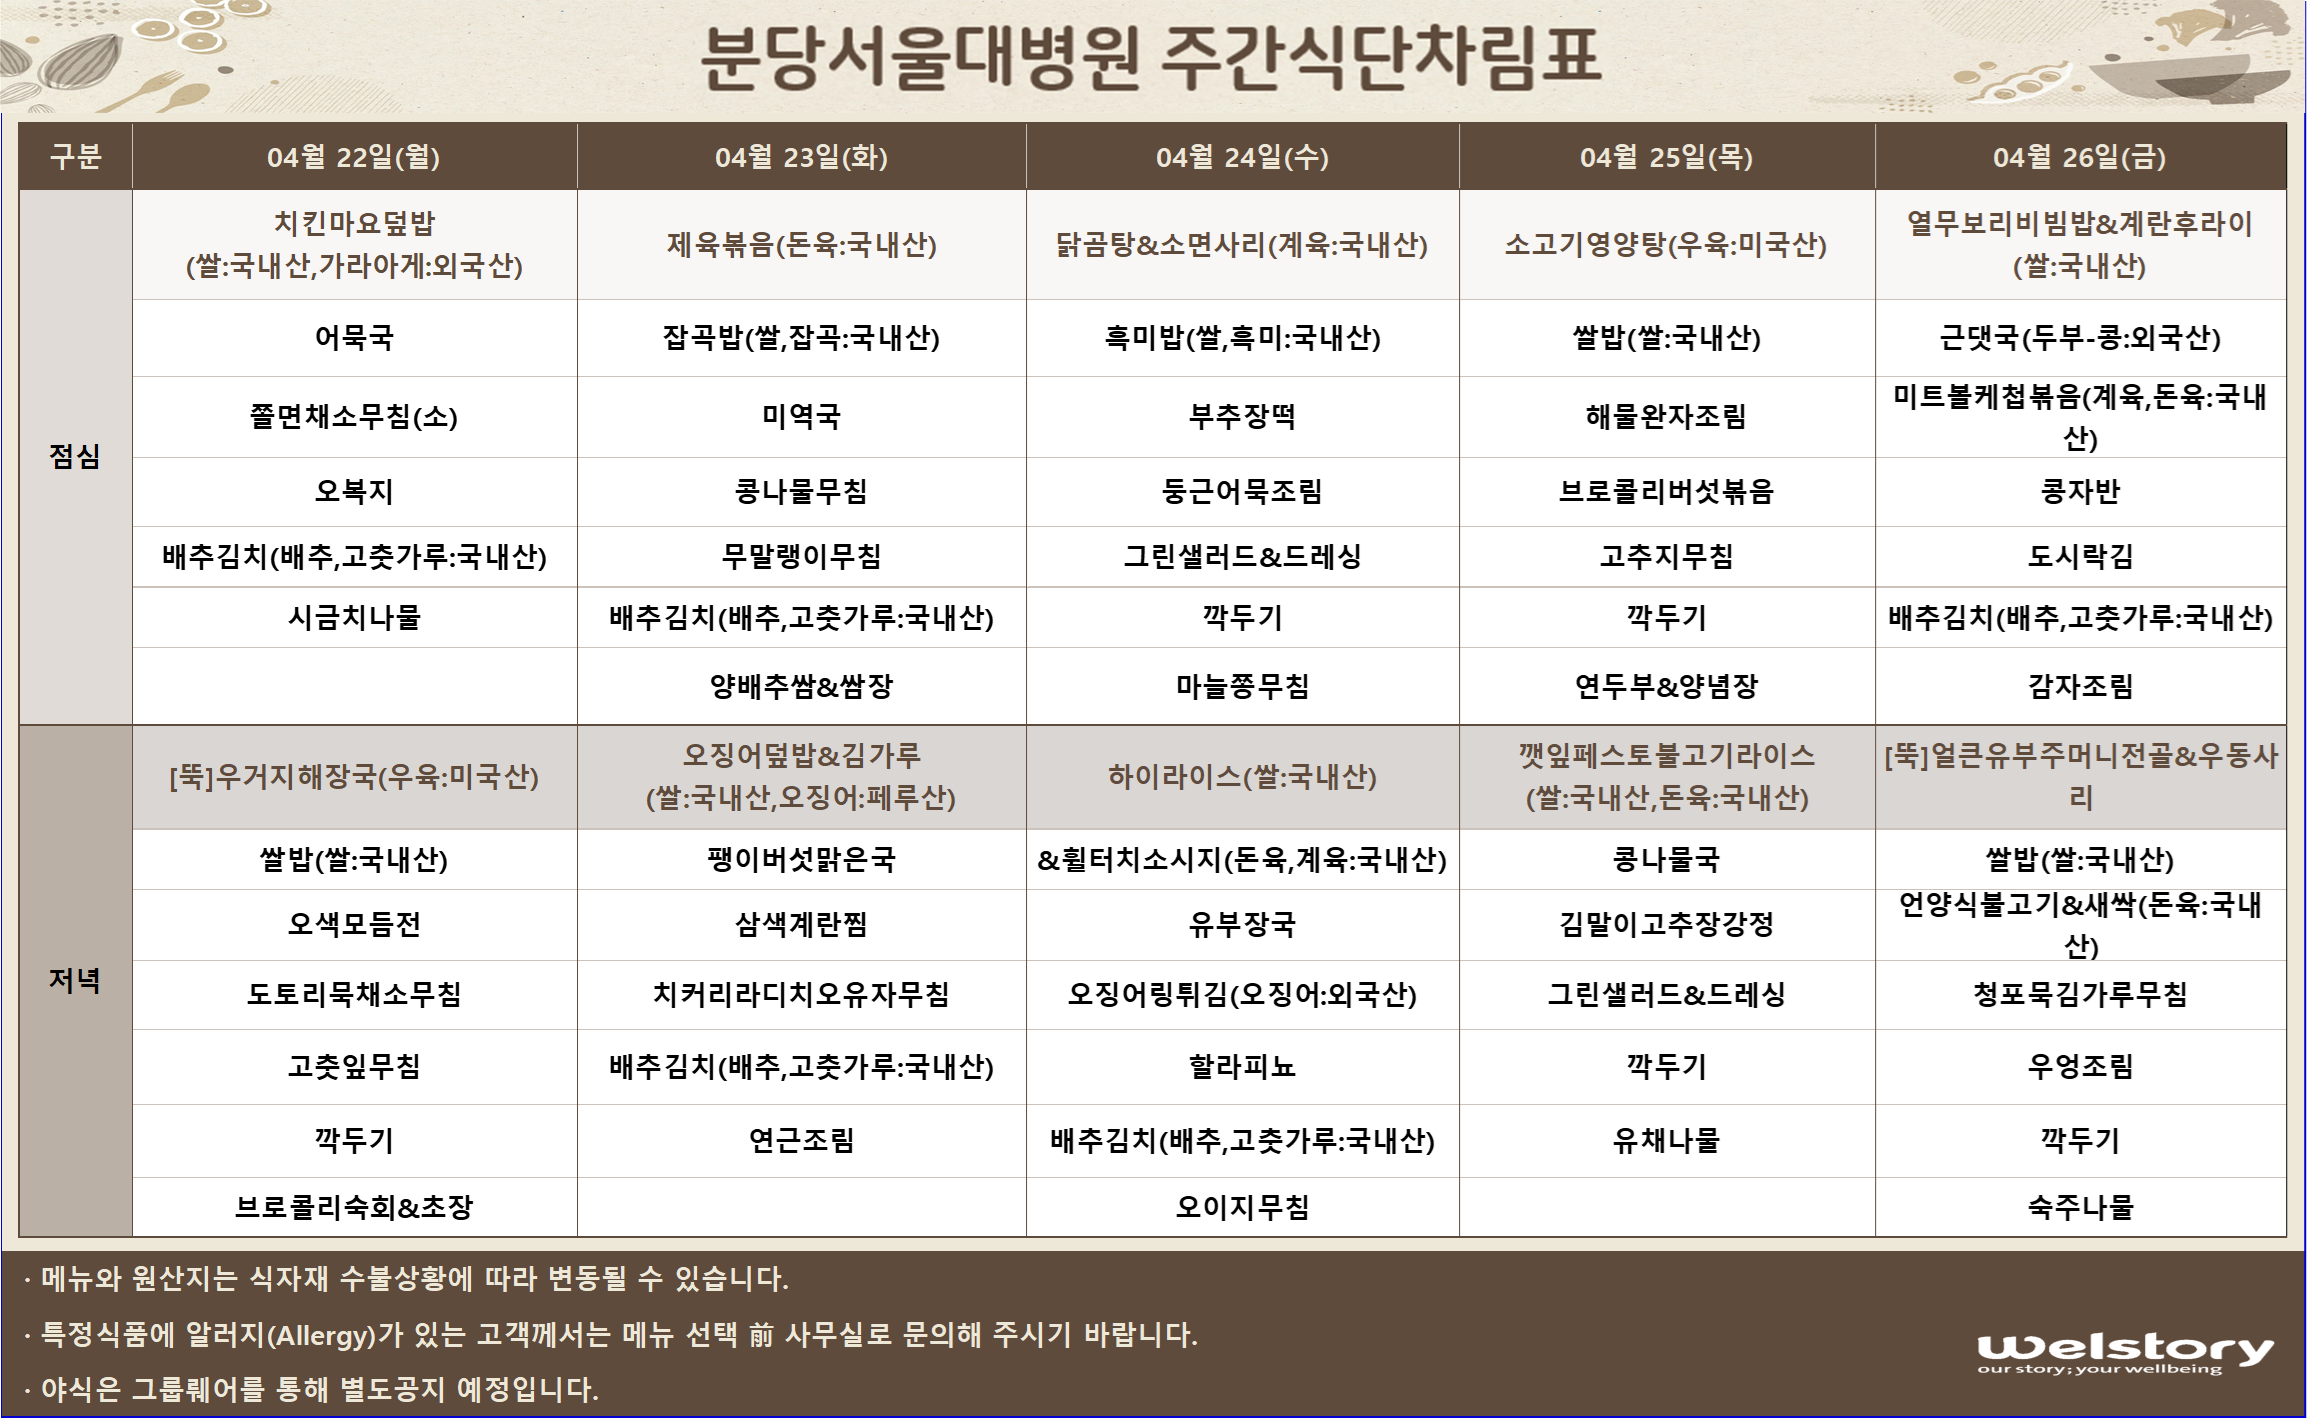
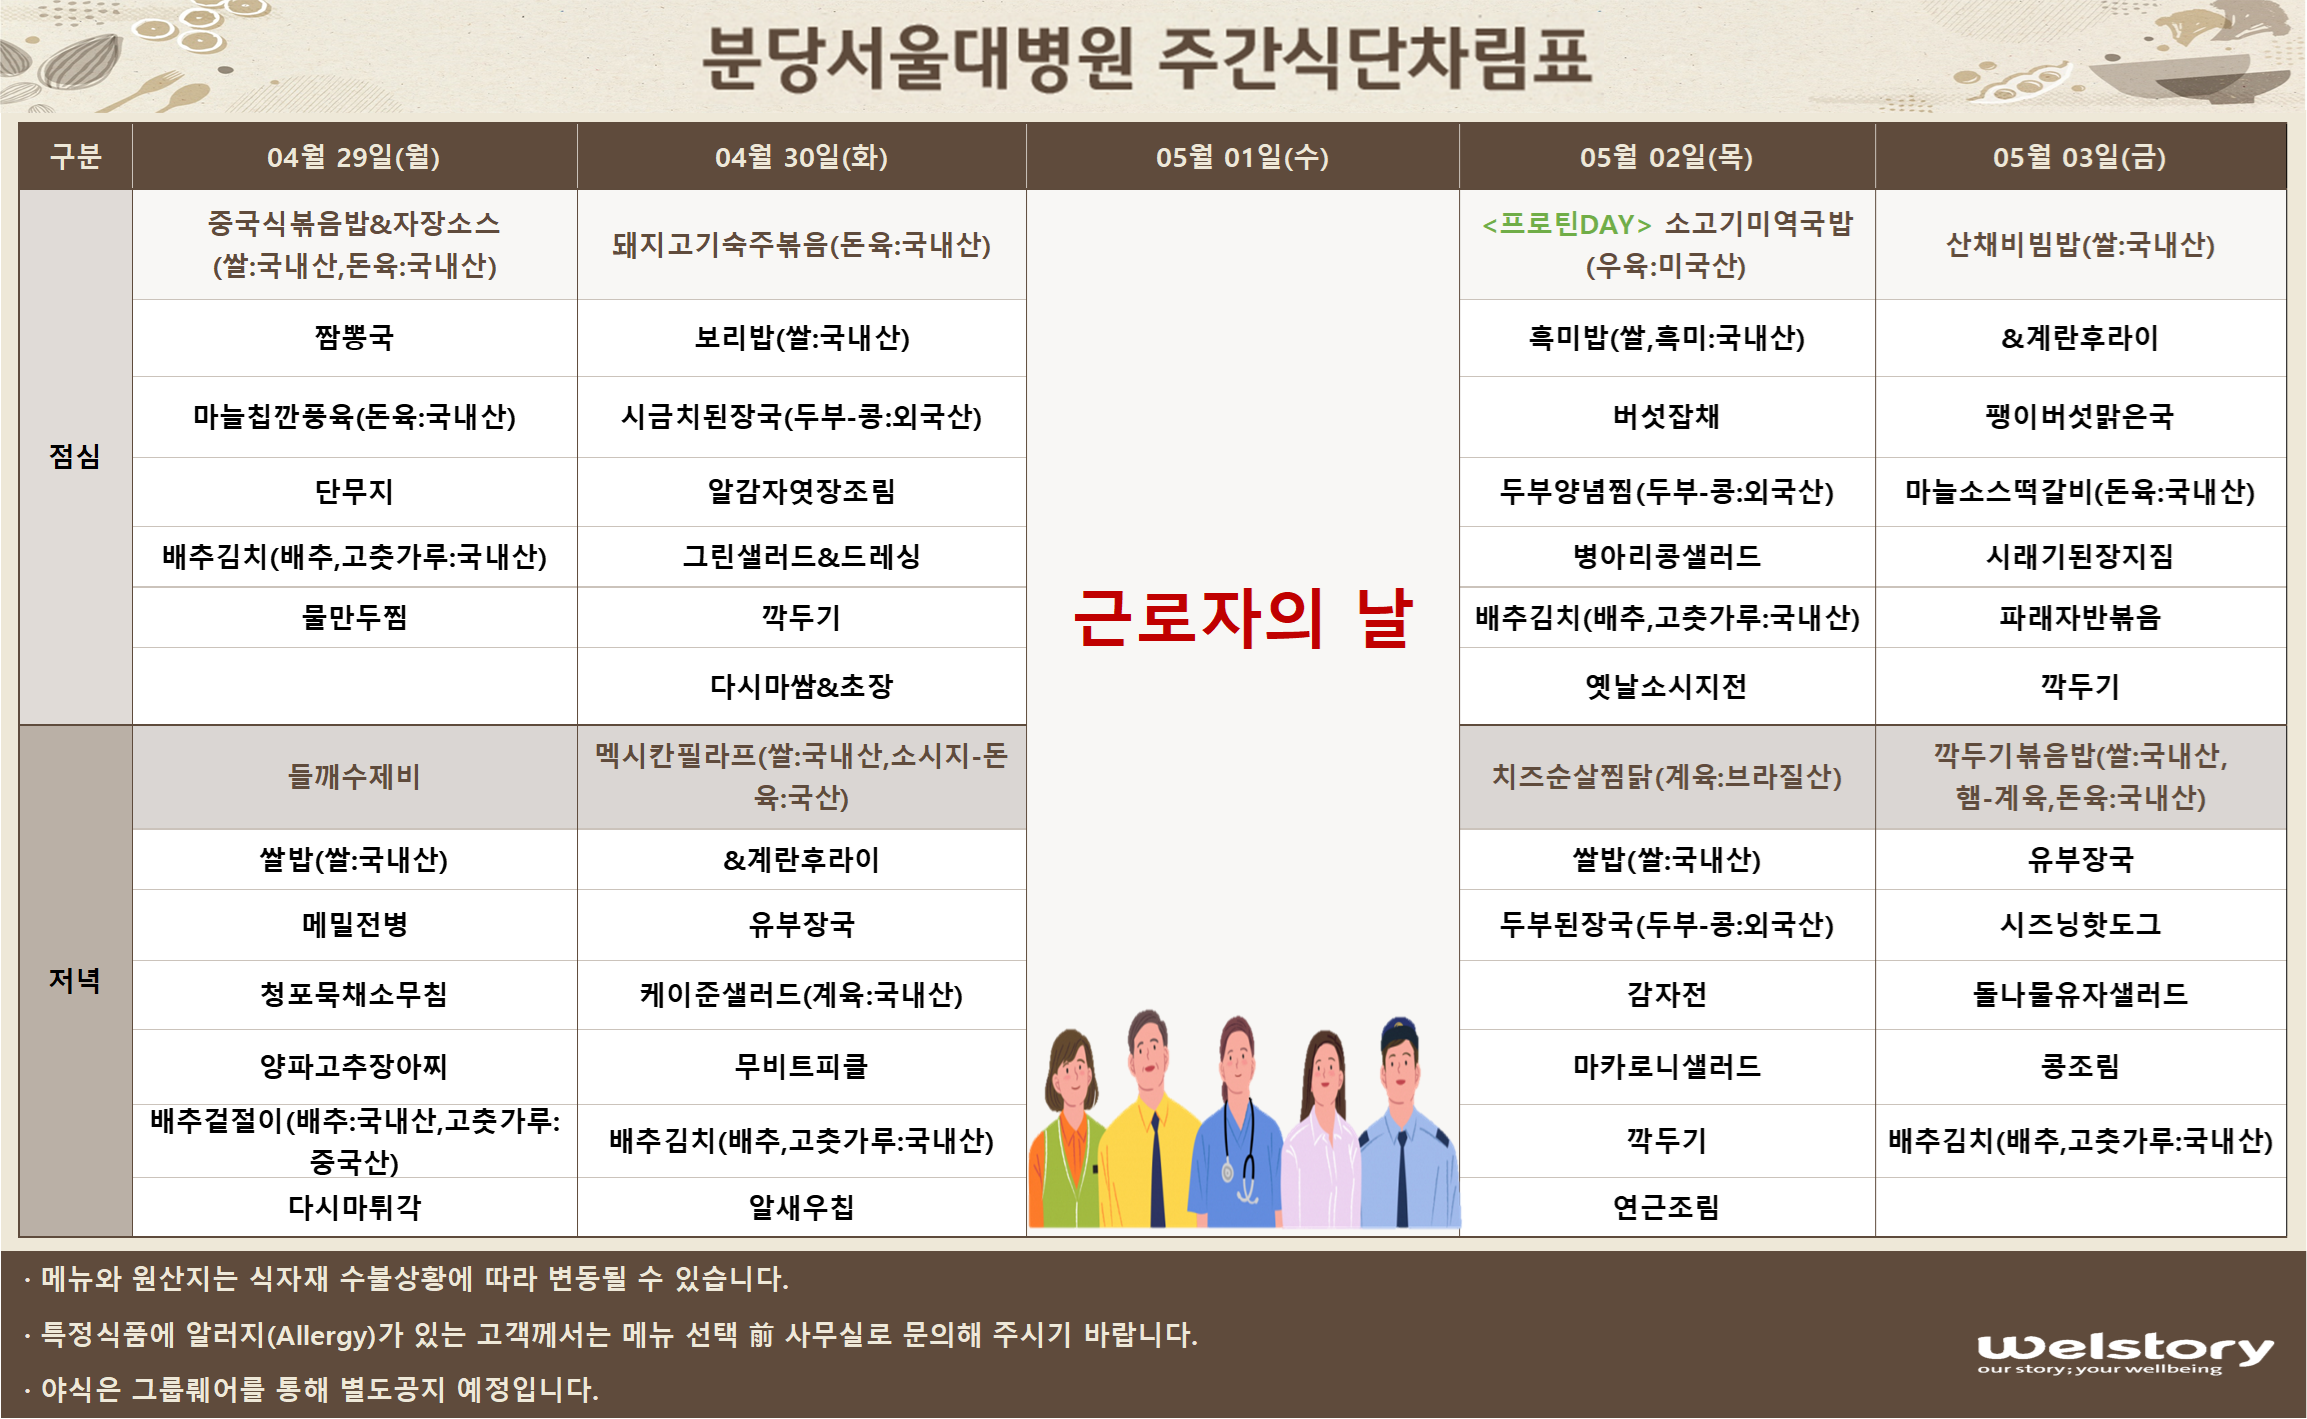
Add files via upload

diff --git a/6/index.html b/6/index.html
@@ -12,13 +12,13 @@
 <h2> 메뉴 업데이트는 주인장 여유가 되면 합니다. (이미지 확대해서 보세요) <br> </h2>
 
 <br>
-<h1> 4월 4주차 </h1>
+<h1> 5월 2주차 </h1>
 <img src="수술.png" width="100%">
 <br>
 
 
 
-<h6> Last update 2024/04/19  </h6>  
+<h6> Last update 2024/04/30  </h6>  
 <h1 >맛있게 드세요.  </h1> 
 
 </body>

diff --git a/1/index.html b/1/index.html
@@ -13,14 +13,14 @@
 
 
 <br>
-<h1> 4월 4주차  </h1>
+<h1> 5월 1주차  </h1>
 <img src="1동.png" width="100%">
 <br>
 
 
 
 
-<h6> Last update 2024/04/19  </h6>  
+<h6> Last update 2024/04/30  </h6>  
 <h1 >맛있게 드세요.  </h1> 
 
 </body>

diff --git a/2/index.html b/2/index.html
@@ -13,13 +13,13 @@
 
 
 <br>
-<h1> 4월 4주차  </h1>
+<h1> 5월 1주차  </h1>
 <img src="HIP.png" width="100%">
 <br>
 
 
 
-<h6> Last update 2024/04/19  </h6>  
+<h6> Last update 2024/04/30  </h6>  
 <h1 >맛있게 드세요.  </h1> 
 
 </body>
